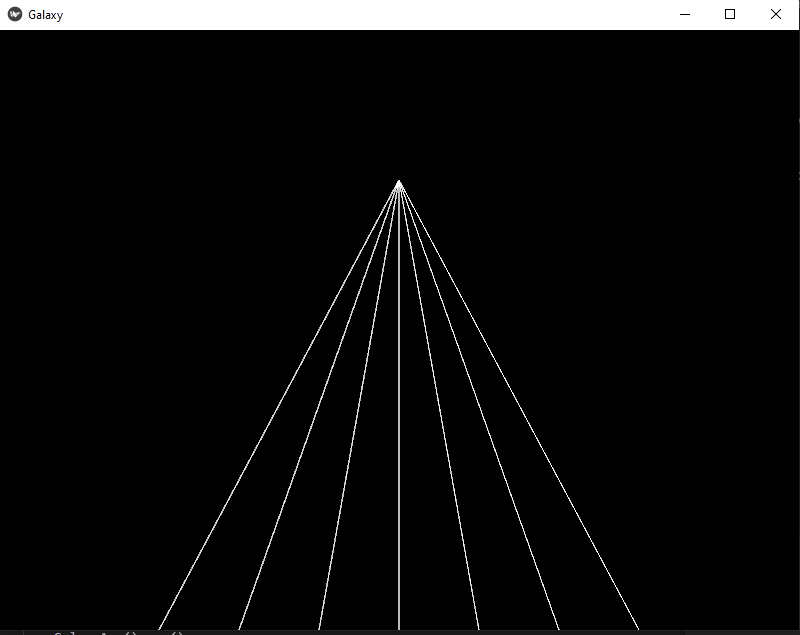
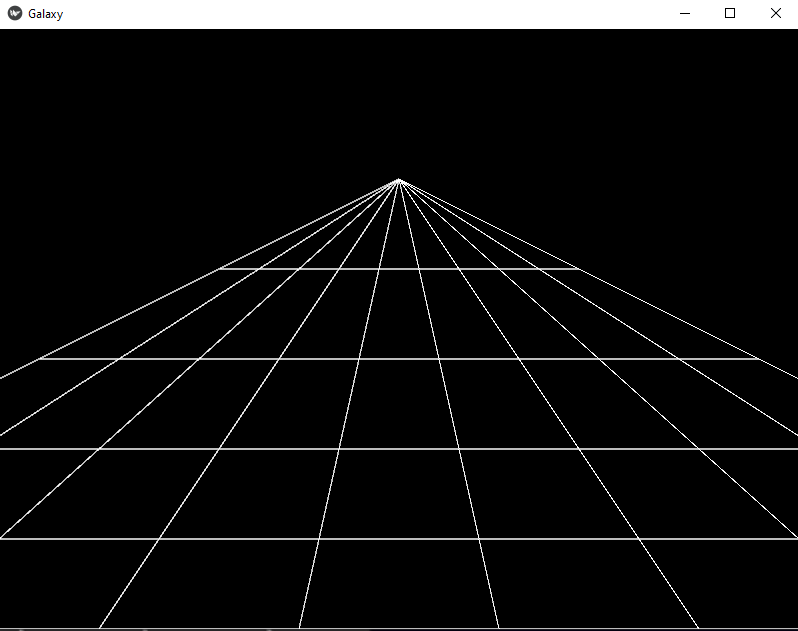
adds animation for the grid to move towards the player

diff --git a/Main.py b/Main.py
@@ -3,19 +3,23 @@ from kivy.uix.widget import Widget
 from kivy.properties import NumericProperty
 from kivy.graphics.vertex_instructions import Line
 from kivy.graphics.context_instructions import Color
+from kivy.properties import Clock
 
 class MainWidget(Widget):
     perspecitvePointX = NumericProperty(0)
     perspecitvePointY = NumericProperty(0)
 
     verticalLines = []
-    numVerticalLines = 4
-    spacingVerticalLines = 0.1
+    numVerticalLines = 10
+    spacingVerticalLines = 0.25
 
     
     horizontalLines = []
-    numhorizontalLines = 4
-    spacinghorizontalLines = 0.2
+    numhorizontalLines = 15
+    spacinghorizontalLines = 0.1
+
+    currentOffsetY = 0
+    speed = 3
 
 
     def __init__(self, **args):
@@ -23,6 +27,7 @@ class MainWidget(Widget):
         #print("init width: " + str(self.width) + " init height: " + str(self.height))
         self.initVerticalLines()
         self.initHorizontalLines()
+        Clock.schedule_interval(self.update, 1.0/60.0)
 
     def on_parent(self, widget, parent):
         pass
@@ -31,8 +36,8 @@ class MainWidget(Widget):
         #print("init width: " + str(self.width) + " init height: " + str(self.height))
         self.perspecitvePointX = self.width/2
         self.perspecitvePointY = self.height*0.75
-        self.updateVerticalLines()
-        self.updateHorizontalLines()
+
+        
 
     def on_perspecitvePointX(self, widget, value):
         #print("PX: " +  str(value))
@@ -56,7 +61,7 @@ class MainWidget(Widget):
         #calculate the spacing
         spacing = self.spacingVerticalLines * self.width
         # offset to start from the left line
-        offset = -int(self.numVerticalLines/2) + 0.5 
+        offset = -int(self.numVerticalLines/2) + 0.5 # + 0.5 to shift half a spacing
 
         for i in range(0, self.numVerticalLines):
             lineX = int(centerX + offset* spacing)
@@ -74,40 +79,58 @@ class MainWidget(Widget):
                 self.horizontalLines.append(Line())
 
     def updateHorizontalLines(self):
-        xMin = 0
-        xMax = self.width
+        #find middle
+        centerX = self.width/2
+        #calculate the spacing
+        spacing = self.spacingVerticalLines * self.width
+        # offset to start from the left line
+        offset = -int(self.numVerticalLines/2) + 0.5 # + 0.5 to shift half a spacing
+
+        spacingY = self.spacinghorizontalLines * self.height
+        xMin = centerX + spacing*offset
+        xMax = centerX - spacing*offset
 
         for i in range(0, self.numhorizontalLines):
-            lineY = int(i * self.spacinghorizontalLines * self.height)
+            lineY = int(i * spacingY - self.currentOffsetY)
             x1, y1 = self.transform(xMin, lineY)
             x2, y2 = self.transform(xMax, lineY)
             self.horizontalLines[i].points = [x1,y1,x2, y2]
 
     def transform(self, x, y):
-        # return self.transformPerspective(x, y)
-        return self.transform2D(x,y)
+        return self.transformPerspective(x, y)
+        # return self.transform2D(x,y)
 
     def transform2D(self, x, y):
         return int(x), int(y)
     
     def transformPerspective(self, x, y):
         # sets 3d y coordinate
-        transformedY = y * self.perspecitvePointY / self.height
+        linearY = y * self.perspecitvePointY / self.height
         # limits y to the perspective point
-        if transformedY > self.perspecitvePointY:
-            transformedY = self.perspecitvePointY
+        if linearY > self.perspecitvePointY:
+            linearY = self.perspecitvePointY
 
         # calculates distance to the perspective point
         diffX = x - self.perspecitvePointX
-        diffY = self.perspecitvePointY - transformedY
+        diffY = self.perspecitvePointY - linearY
 
         # gets proportional distance
-        proportionY = diffY/self.perspecitvePointY
+        factorY = diffY/self.perspecitvePointY
+        factorY = pow(factorY, 4)
 
         # calculates x based on proportional distance of y
-        transformedX = self.perspecitvePointX + diffX * proportionY
+        transformedX = self.perspecitvePointX + diffX * factorY
+        transformedY = (1- factorY) *self.perspecitvePointY
 
         return int(transformedX), int(transformedY)
+
+    def update(self, dt):
+        self.updateVerticalLines()
+        self.updateHorizontalLines()
+        self.currentOffsetY += self.speed
+        spacingY = self.spacinghorizontalLines * self.height
+        if self.currentOffsetY >= spacingY:
+            self.currentOffsetY -= spacingY
             
 
 class GalaxyApp(App):
@@ -116,5 +139,3 @@ class GalaxyApp(App):
 
 if __name__ == '__main__':    
     GalaxyApp().run()
-
-
